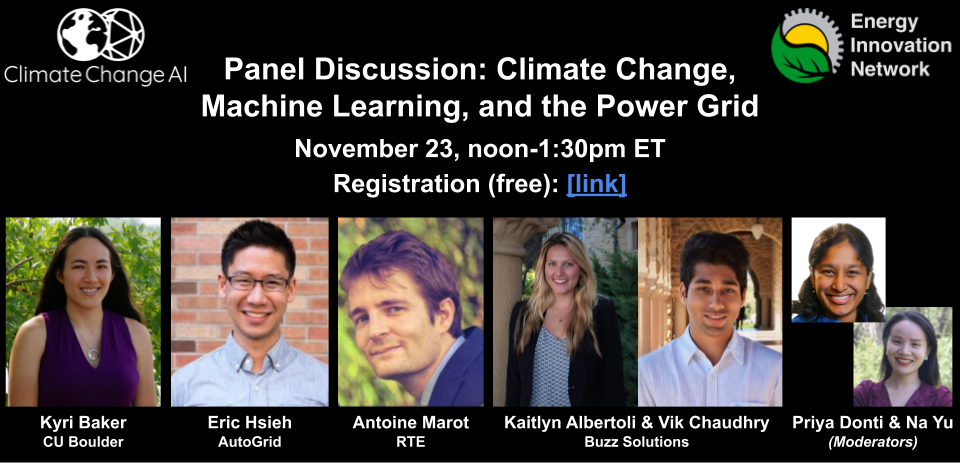
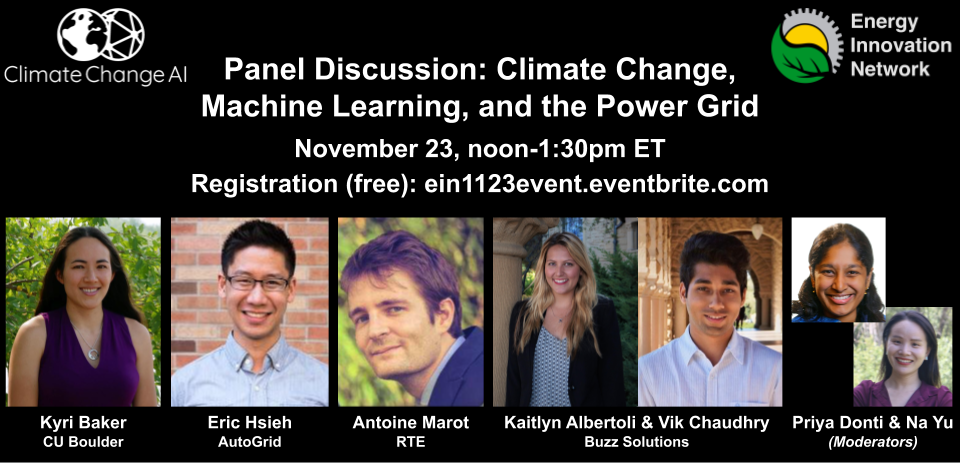
update webinar poster and page with eventbrite link

Changed region(s): [[0.1875, 0.3629, 0.8125, 0.4233]]

diff --git a/webinars.md b/webinars.md
@@ -17,7 +17,7 @@ og_image_height: 555
 
 <b>When:</b> Mon, November 23, 2020 from noon-1:30pm Eastern Time<br>
 <b>Speakers:</b> Kyri Baker (CU Boulder), Eric Hsieh (AutoGrid), Antoine Marot (RTE), Kaitlyn Albertoli & Vik Chaudhry (Buzz Solutions)<br>
-<b>Registration (free):</b> LINK
+<b>Registration (free)</b> via <a href="https://ein1123event.eventbrite.com/" target="_blank">Eventbrite</a>.
 
 <details>
 
@@ -25,15 +25,15 @@ og_image_height: 555
 
 How can machine learning help decarbonize the power sector? Join us for a conversation with leaders from academia, startups, and the power industry, who will share insights from their own work in this space, as well as advice on how to make the leap from innovation to deployment. This webinar is co-hosted by Climate Change AI and the Energy Innovation Network. Speakers include:<br><br>
 
-<b>Dr. Kyri Baker</b> received her B.S., M.S., and Ph.D. in Electrical and Computer Engineering from Carnegie Mellon University in 2009, 2010, and 2014, respectively. From 2015 to 2017, she worked at the National Renewable Energy Laboratory. Since Fall 2017, she has been an Assistant Professor at the University of Colorado Boulder. Dr. Baker is a Fellow of the Renewable and Sustainable Energy Institute (RASEI). Her research focuses on renewable energy integration by changing the way the electric power grid operates. In particular, she develops computationally efficient optimization and learning algorithms for energy systems ranging from building-level assets to transmission grids.<br><br>
+<a href="http://www.kyrib.com/" target="_blank"><b>Dr. Kyri Baker</b></a> received her B.S., M.S., and Ph.D. in Electrical and Computer Engineering from Carnegie Mellon University in 2009, 2010, and 2014, respectively. From 2015 to 2017, she worked at the National Renewable Energy Laboratory. Since Fall 2017, she has been an Assistant Professor at the University of Colorado Boulder. Dr. Baker is a Fellow of the Renewable and Sustainable Energy Institute (RASEI). Her research focuses on renewable energy integration by changing the way the electric power grid operates. In particular, she develops computationally efficient optimization and learning algorithms for energy systems ranging from building-level assets to transmission grids.<br><br>
 
-<b>Eric Hsieh</b> is the Head of Product for AI/ML Applications for AutoGrid, an energy industry software company. Previously working as a Sr. Machine Learning Engineer for AutoGrid, he built and deployed a Predictive Maintenance model at a Fortune 500 energy company that catches distribution outages with IoT data in realtime. Now, as the Head of Product, Eric aims to make the energy grid more efficient by productizing AI applications. He received his formal education in Evolutionary Biology from the University of Michigan at Ann Arbor, where he founded a biofuel startup that made energy from brewery wastewater. In his free time, Eric enjoys gardening and golfing.<br><br>
+<a href="https://www.linkedin.com/in/erichsieh1/" target="_blank"><b>Eric Hsieh</b></a> is the Head of Product for AI/ML Applications for AutoGrid, an energy industry software company. Previously working as a Sr. Machine Learning Engineer for AutoGrid, he built and deployed a Predictive Maintenance model at a Fortune 500 energy company that catches distribution outages with IoT data in realtime. Now, as the Head of Product, Eric aims to make the energy grid more efficient by productizing AI applications. He received his formal education in Evolutionary Biology from the University of Michigan at Ann Arbor, where he founded a biofuel startup that made energy from brewery wastewater. In his free time, Eric enjoys gardening and golfing.<br><br>
  
-<b>Antoine Marot</b> is the lead AI scientist at RTE, the French transmission system operator. He holds a double master’s degree in Engineering from Ecole Centrale Paris and Stanford University. After interning at Tesla Motors, he joined RTE R&D on the Apogee project 6 years ago, with the long-term goal of developing a personal assistant for control room operators with AI. Through collaboration with INRIA (the French AI research lab), he supervised several PhD students on augmented power system simulators with AI, and on Human-Intelligent Machine interactions with a strong focus on interpretability. He recently co-authored several papers using AI for power systems and has given talks on the topic at various venues, including a keynote at the IJCNN AI conference. He advocates for a new "AI for power systems community" bringing together researchers from both fields to accelerate the application of AI. The “Learning to Run a Power Network” challenge running along NeurIPS 2020, the largest AI conference, is a strong step forward towards it.<br><br>
+<a href="https://www.linkedin.com/in/antoine-marot/" target="_blank"><b>Antoine Marot</b></a> is the lead AI scientist at RTE, the French transmission system operator. He holds a double master’s degree in Engineering from Ecole Centrale Paris and Stanford University. After interning at Tesla Motors, he joined RTE R&D on the Apogee project 6 years ago, with the long-term goal of developing a personal assistant for control room operators with AI. Through collaboration with INRIA (the French AI research lab), he supervised several PhD students on augmented power system simulators with AI, and on Human-Intelligent Machine interactions with a strong focus on interpretability. He recently co-authored several papers using AI for power systems and has given talks on the topic at various venues, including a keynote at the IJCNN AI conference. He advocates for a new "AI for power systems community" bringing together researchers from both fields to accelerate the application of AI. The “Learning to Run a Power Network” challenge running along NeurIPS 2020, the largest AI conference, is a strong step forward towards it.<br><br>
  
-As the two co-founders of Buzz Solutions, <b>Kaitlyn Albertoli</b> and <b>Vik Chaudhry</b> met during their time at Stanford University and created Buzz Solutions from a launchpad course there in the spring of 2017. Jointly, the two bring a well-rounded and complimentary skillset to the table. Vik has a Masters degree from Stanford in Energy Engineering focusing on applications of Machine Learning and AI for Smart Grid technologies, Demand Response and Energy Efficiency. He has several years of experience with AI/Machine Learning and Computer Vision, leading ML teams at Cisco Systems. Kaitlyn also graduated from Stanford with coursework in Economics and Finance. She has previous experience working in finance at J.P. Morgan and also ran a nonprofit in the Sustainable Food space. Each bringing unique skill sets to the table, Vik and Kaitlyn are passionate about bringing the digital transformation to a traditional industry with a burning need to modernize the aging grid infrastructure and to put an end to some of the mass disasters such as wildfires, forced shutdowns, and network failures as a result of failed infrastructure.<br><br>
+As the two co-founders of <a href="https://www.buzzsolutions.co/" target="_blank">Buzz Solutions</a>, <a href="https://www.linkedin.com/in/kaitlyn-claire-albertoli/" target="_blank"><b>Kaitlyn Albertoli</b></a> and <a href="https://www.linkedin.com/in/vikhyatchaudhry/" target="_blank"><b>Vik Chaudhry</b></a> met during their time at Stanford University and created Buzz Solutions from a launchpad course there in the spring of 2017. Jointly, the two bring a well-rounded and complimentary skillset to the table. Vik has a Masters degree from Stanford in Energy Engineering focusing on applications of Machine Learning and AI for Smart Grid technologies, Demand Response and Energy Efficiency. He has several years of experience with AI/Machine Learning and Computer Vision, leading ML teams at Cisco Systems. Kaitlyn also graduated from Stanford with coursework in Economics and Finance. She has previous experience working in finance at J.P. Morgan and also ran a nonprofit in the Sustainable Food space. Each bringing unique skill sets to the table, Vik and Kaitlyn are passionate about bringing the digital transformation to a traditional industry with a burning need to modernize the aging grid infrastructure and to put an end to some of the mass disasters such as wildfires, forced shutdowns, and network failures as a result of failed infrastructure.<br><br>
 
-<b>Moderators</b>: Priya Donti (Climate Change AI), Na Yu (Energy Innovation Network)
+<b>Moderators</b>: <a href="https://priyadonti.com/" target="_blank">Priya Donti</a> (Climate Change AI), <a href="https://www.linkedin.com/in/nayu/" target="_blank">Na Yu</a> (Energy Innovation Network)
 
 </details>
 
